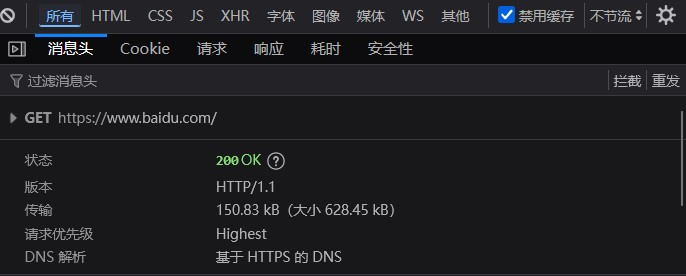
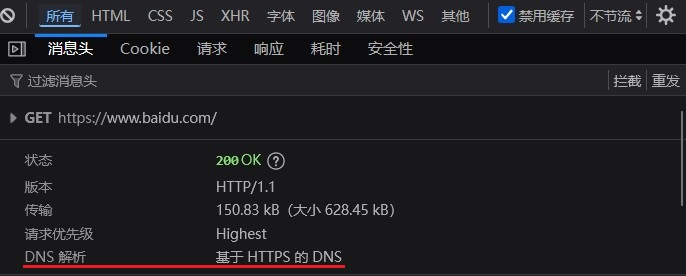
修补文章

Changed region(s): [[0.0306, 0.9565, 0.5204, 0.9855]]

diff --git a/文章/lucky-STUN系列/svcb记录隐藏端口.md b/文章/lucky-STUN系列/svcb记录隐藏端口.md
@@ -46,7 +46,7 @@
 其只是从浏览器的地址栏中转移到了iframe框架的地址栏中  
 <img src="../../图片/svcb记录隐藏端口/iframe示例.jpg" width="60%" height="60%" />
 
-相比其显性重定向隐性重定向的兼容性其实更差  
+相比其显性重定向 隐性重定向的兼容性其实更差  
 一些元素和网页可能不被允许镶嵌在iframe框架框架中  
 而对于APP来说兼容和适配更无可能 因为iframe框架只能用于浏览器显示  
 
@@ -60,13 +60,10 @@ SRV记录（[RFC 2782](https://datatracker.ietf.org/doc/html/rfc2782)）早在20
 而SVCB记录则2023年才完成标准化([RFC 9461](https://datatracker.ietf.org/doc/html/rfc9461)和[RFC 9460](https://datatracker.ietf.org/doc/html/rfc9460))  
 
 SVCB记录所提能供的服务远比SRV要多 其不仅仅用于指示服务端口  
-不过在本教程中 主要是使用其来“隐藏”WEB服务的端口  
+不过在本教程中 主要使用其来“隐藏”WEB服务的端口  
 
 **HTTPS是SVCB记录中的一种 专门用于指示HTTPS服务参数**  
 在设置/查询记录类型的时候需要注意区分  
-
-不论是SRV记录还是SVCB/HTTPS 记录  
-都相当于是一种特殊的TXT记录 用于记录服务参数  
 
 
 **一般工作流程**  
@@ -79,6 +76,11 @@ SVCB记录所提能供的服务远比SRV要多 其不仅仅用于指示服务端
 ECH 记录的特殊要求：  
 客户端需要在收到 HTTPS 查询结果之后再发起 TLS 连接，以防服务端开启 ECH  
 如果 HTTPS 查询超时，客户端不能假设服务端不支持 ECH，以防降级攻击  
+
+与之前的重定向方案相比 使用HTTPS记录无需 开放端口的服务器支持  
+其相当于一个 “无源” 方案 更适合那些不提供重定向/URL转发功能的DNS提供商  
+而且未来APP的适配也相对容易 先发https查询 再根据返回发起https连接  
+
 
 ---
 
@@ -272,6 +274,20 @@ socks5 协议支持UDP 当然上游服务器也需要支持UDP
 
 <img src="../../图片/svcb记录隐藏端口/不带端口访问.jpg" width="60%" height="60%" />
 
+
+### 更新HTTPS记录
+
+使用lucky更新 HTTPS 记录的方法和之前更新SRV记录时基本相同  
+依然可以使用全局变量来动态引用STUN穿透后获得的端口  
+
+<img src="../../图片/svcb记录隐藏端口/更新https记录-1.jpg" width="60%" height="60%" />
+<img src="../../图片/svcb记录隐藏端口/更新https记录-2.jpg" width="60%" height="60%" />
+
+第一项为 **优先级** 这里填写的是1  
+第二项为 **目标** 因为是服务模式 指向的是自身 故填写的是点  
+之后便是 值 的内容 与之前在cf控制台中填写的保持一致  
+此处还使用了动态的stun全局变量替换静态的具体值  
+
 ---
 
 ## 故障排除
@@ -290,11 +306,11 @@ socks5 协议支持UDP 当然上游服务器也需要支持UDP
 ## 火狐安卓版配置
 
 目前火狐的安卓版本也已经可以使用HTTPS记录  
-与Windows上不同的是 目前安卓版本的火狐没无法自定义DoH服务器  
-但其可以使用系统设置中的DoH 设置系统DoH后即可使用HTTPS  
+与Windows上不同的是 目前安卓版本的火狐内置的DoH查询功能  
+好在其可以使用系统设置中的DoH 设置系统DoH后即可使用HTTPS记录  
 
 不同品牌的设备 对其的称呼也不同  
-如 加密DNS 安全DNS 私人/私有DNS  
+如 加密DNS、安全DNS、私人/私有DNS  
 可以直接在系统设置中使用 DNS 为关键字 进行搜索  
 
 <img src="../../图片/svcb记录隐藏端口/安卓-安全dns-1.jpg" width="60%" height="60%" />
@@ -302,7 +318,8 @@ socks5 协议支持UDP 当然上游服务器也需要支持UDP
 <img src="../../图片/svcb记录隐藏端口/安卓-安全dns-3.jpg" width="60%" height="60%" />
 <img src="../../图片/svcb记录隐藏端口/安卓-安全dns-4.jpg" width="60%" height="60%" />
 
-
+**示例**  
+<img src="../../图片/svcb记录隐藏端口/火狐安卓-https记录.jpg" width="60%" height="60%" />
 
 ---
 
